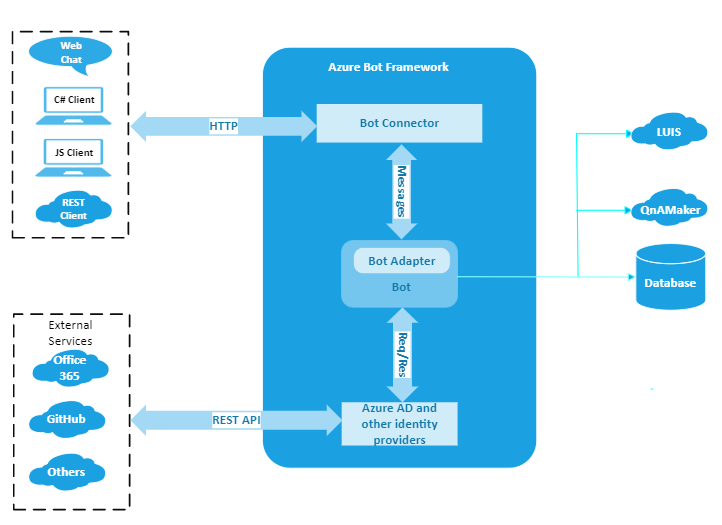
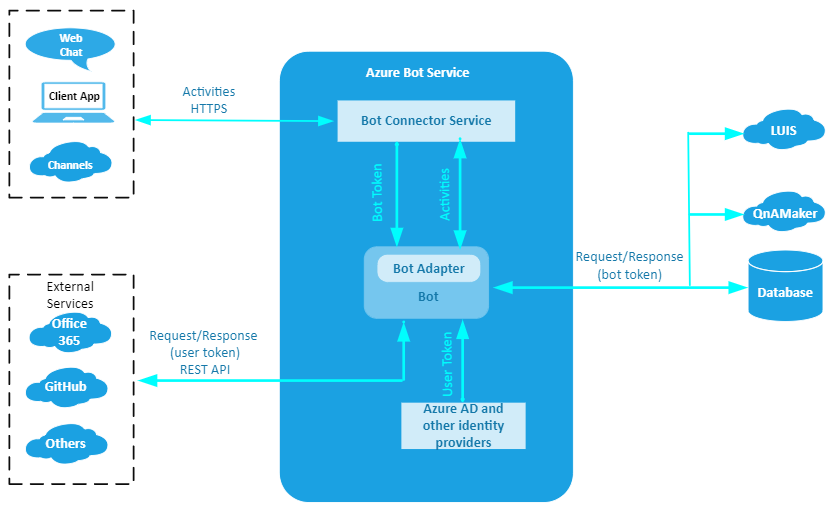
Fixed content and figure based on feedback

Changed region(s): [[0.0, 0.0, 1.0, 0.9884]]

diff --git a/BotFramework/Authentication/bot-oauth-cleanup.md b/BotFramework/Authentication/bot-oauth-cleanup.md
@@ -2,27 +2,19 @@
 
 ## Overview
 
-This notes try to shed some light on authentication within the Bot Framework ecosystem.
-From the outset let's say that there are 2 broad authentication categories:
-**bot authentication** and **user authentication**.
-The **token** is a key element applicable to both categories, we intend to *follow the token* to make sense of the authentication intricacies.
+In the Bot Framework, two broad authentication categories exist: **bot authentication** and **user authentication**. Both have an associated **token** to allow access to secured resources.
 
 ## Bot authentication
 
 A bot is identified by the **MicrosoftAppID** and **MicrosoftAppPassword** which are kept within the bot's settings files: `appsettings.json` (.NET), `.env` (JavaScript), `config.py` (Python), or the **Azure Key Vault**. For more information, see [MicrosoftAppID and MicrosoftAppPassword](https://docs.microsoft.com/azure/bot-service/bot-service-manage-overview?view=azure-bot-service-4.0#microsoftappid-and-microsoftapppassword).
 
-**TO DO**
-- [ ] Update the article [Connect a bot to channels](https://docs.microsoft.com/azure/bot-service/bot-service-manage-channels?view=azure-bot-service-4.0). Show the connector and mention bot/connector authentication.
 
 ### Bot to connector authentication
 
-Register a bot with Azure, for example via the **Bot Channels Registration**. Azure creates an Active Directory registration application. This application has an application ID (`MicrosoftAppID`) and client secret (`MicrosoftAppPassword`). Use these two values to request an **access token**. If the bot is deployed in Azure the two values are used to implicitly generate the token.
-Independently from where the bot is deployed, can be Azure or another hosting service, the application ID and tne secret are used to generate the **token**.
-
-- [ ] Q: Should we use this? If the **Certificate Authentication** is in use then, the `MicrosoftAppId`, `certificate` and `thumbprint` are used to generate the token. We need to specify what `certificate` and `thumbprint` are.
+Register a bot with Azure, for example via the **Bot Channels Registration**. Azure creates an Active Directory registration application. This application has an application ID (`MicrosoftAppID`) and client secret (`MicrosoftAppPassword`). If you’ve registered your bot on Azure, that is you’re using Azure (Azure AD) as an identity provider, the Azure Bot Service generates a token for your bot from these two values. The Bot Framework SDK encapsulates this process for your bot. Otherwise, whatever you’re using as your identity provider will need to generate the token.
 
 
-When the bot sends a request to the **Bot Connector service**, it must specify the **access token** in the **Authorization header** of the request.
+When the bot sends a request to the **Bot Connector service**, it must specify the **token** in the **Authorization header** of the request.
 All requests sent to the Bot Connector service must include the access token in the Authorization header. If the token is correctly formed, is not expired, and was generated by the the Azure AD v2 account login service, the Bot Connector service will authorize the request. Additional checks are performed to ensure that the token belongs to the bot that sent the request.
 
 For more information, see [Authenticate requests from your bot to the Bot Connector service](https://docs.microsoft.com/en-us/azure/bot-service/rest-api/bot-framework-rest-connector-authentication?view=azure-bot-service-4.0#bot-to-connector).
@@ -32,9 +24,6 @@ For more information, see [Authenticate requests from your bot to the Bot Connec
 When the Bot Connector service sends a request to a bot, it specifies a **signed token** in the **Authorization header** of the request. The bot can authenticate calls from the Bot Connector service by verifying the authenticity of the signed token.
 
 For more information, see [Authenticate requests from the Bot Connector service to your bot](https://docs.microsoft.com/en-us/azure/bot-service/rest-api/bot-framework-rest-connector-authentication?view=azure-bot-service-4.0#connector-to-bot).
-
-**TO DO**
-- [ ] Rename the article **Connector authentication**.
 
 ### Channels
 
@@ -51,10 +40,6 @@ You can connect the bot to a custom app by using the Direct Line channel.
 > A Direct Line token is a key that can be used to **access a single conversation**. **A token expires but can be refreshed**.
 
 For more information, see [Authentication](https://docs.microsoft.com/en-us/azure/bot-service/rest-api/bot-framework-rest-direct-line-3-0-authentication?view=azure-bot-service-4.0).
-
-**TO DO**
-- [ ] Change title to **Direct Line Authentication**.
-
 
 #### Web Chat
 
@@ -131,24 +116,12 @@ The channel adapters like the Slack adapter need to do everything the Bot Framew
 
 ## Appendix
 
-The following simplified architecture highlights the **Bot Connector** position between the **Bot** and the **Channels**.
-
-![Bot Framework architecture](../../Media/Authentication/bot-framework-architecture-simple.PNG)
-
-## Definitions
-
-Before we get into bot and user authentication details, let's define some terminology for later use.
+### Definitions
 
 - **Bot framework service**. The framework is an Azure cloud service and *translates* the data from the APIs of multiple channels into the bot framework protocol in a form that a bot understands. This allows the bot to communicate with multiple channels, without having to understand which channel the data is coming from. The framework handles both inbound and outbound requests.
 - **Bot connector service**. This Azure cloud service forwards information from a bot to a channel (user) in the form of activity objects. When a bot sends a request to the connector service, it must include information that the connector service can use to **verify its identity**. The connector handles only outbound requests.
 - **Bot framework adapter**. The bot adapter encapsulates **authentication processes** and sends activities to and receives activities from the bot connector service. When a bot receives an activity, the adapter creates a turn context object, passes it to the bot application logic, and sends responses back to the connector (user's channel).
 - **Middleware**. The adapter processes and directs incoming activities through the bot middleware pipeline to the bot logic and then back out again. As each activity flows in and out of the bot, each piece of middleware can inspect or act upon the activity, both before and after the bot logic runs.
-
-See the following diagram depicting the main bot logic.
-
-![main bot logic](../../Media/Authentication/main-bot-logic.png)
-
-
 
 ## References
 
